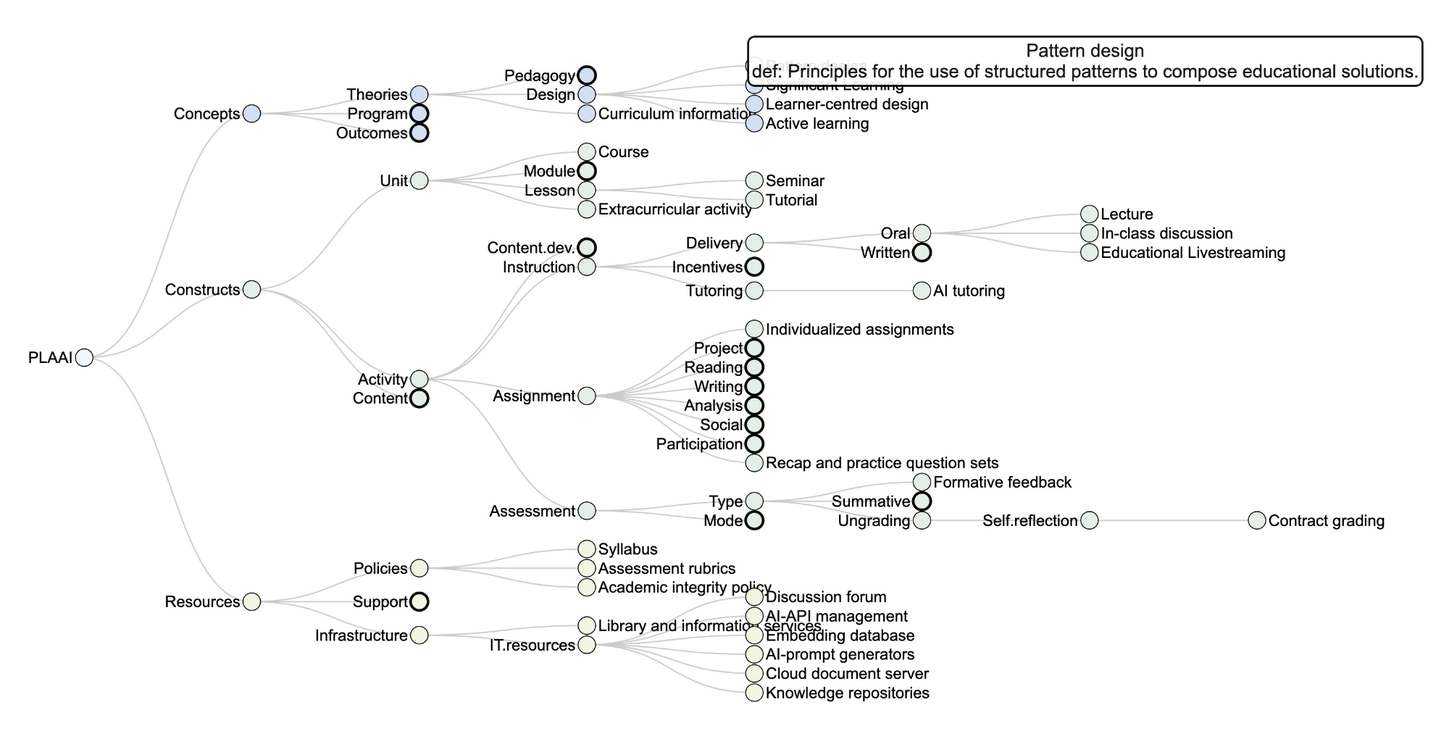
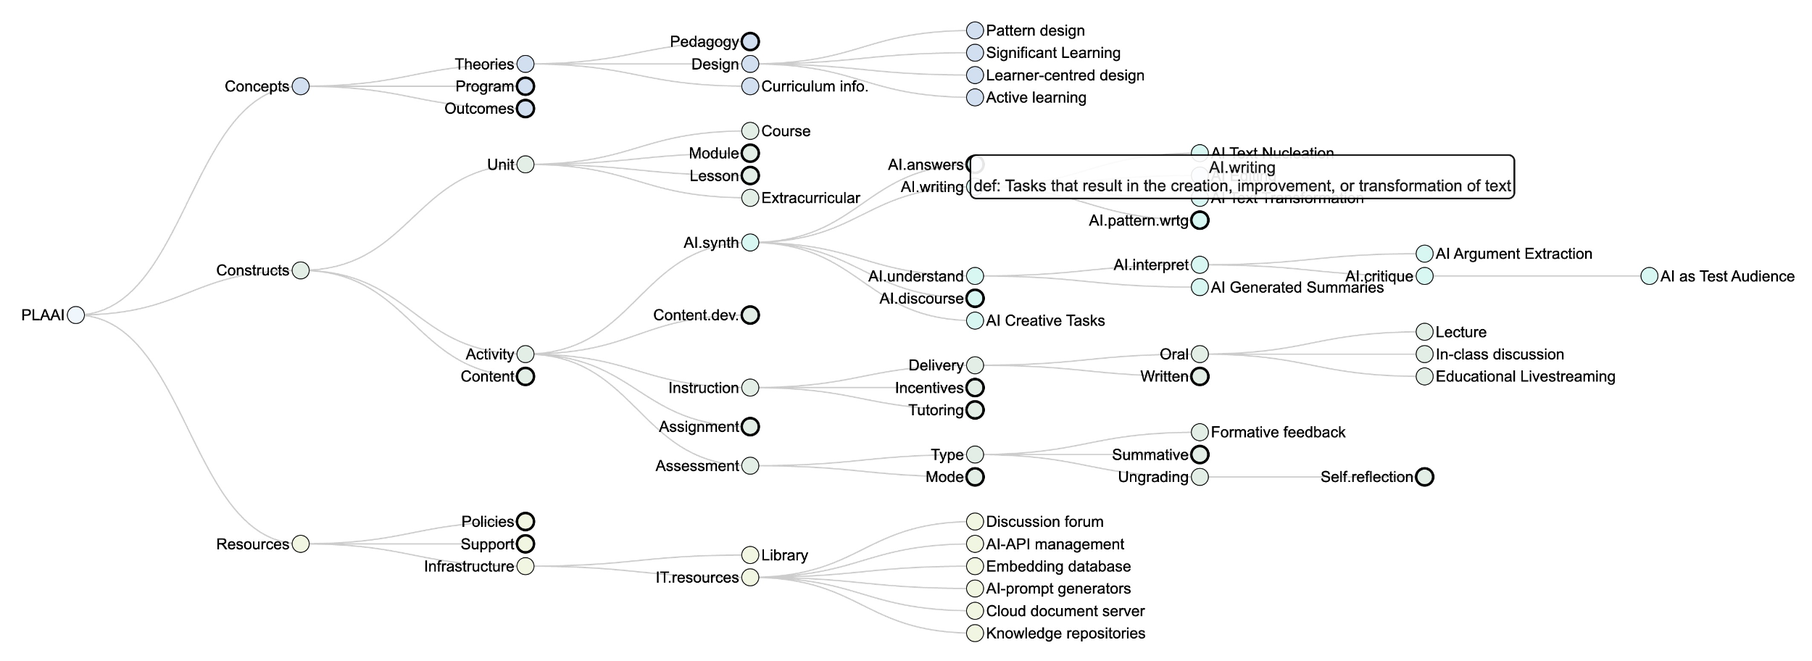
Added AISYN branch to tree

diff --git a/docs/PLAAI-reference.html b/docs/PLAAI-reference.html
@@ -1259,13 +1259,13 @@ function separationFun(a, b) {
     var noSpam = "sentient.syllabus";
   </script>
   <h2>PLAAI - A Pattern Language for AI-Augmented Instruction</h2>
-  <span style="color: #AAAAAA;">Version: 2023-05-15</span><br/>
+  <span style="color: #AAAAAA;">Version: 2023-05-17</span><br/>
 </span>
 <div id="htmlwidget_container">
-  <div id="htmlwidget-03c1bfc09c159c479cef" style="width:1000px;height:800px;" class="collapsibleTree html-widget "></div>
+  <div id="htmlwidget-c0831c7dac5cc8bb9c24" style="width:1000px;height:800px;" class="collapsibleTree html-widget "></div>
 </div>
-<script type="application/json" data-for="htmlwidget-03c1bfc09c159c479cef">{"x":{"data":{"name":"PLAAI","fill":"#EEF6FD","WeightOfNode":"A system of composable patterns for the design and implementation of education.","children":[{"name":"Concepts","fill":"#CEE0F2","WeightOfNode":"One of the three main concerns of PLAAI, complementing Educational Practice and Resources.","children":[{"name":"Theories","fill":"#CEE0F2","WeightOfNode":"The ideas through which we organize our understanding  of education.","children":[{"name":"Pedagogy","fill":"#CEE0F2","WeightOfNode":"A set of coherent principles, strategies and techniques for education.","children":[{"name":"Inquiry-based learning","fill":"#CEE0F2","WeightOfNode":"Learning through guided and independent investigation into complex problems."},{"name":"Individualized instruction","fill":"#CEE0F2","WeightOfNode":"Adapting instruction to students' individual interests, strengths, and needs."},{"name":"Collaborative learning","fill":"#CEE0F2","WeightOfNode":"Learning through working together as a mutually dependent collaborators"},{"name":"Knowledge Building","fill":"#CEE0F2","WeightOfNode":"Creation, validation and improvement of collective conceptual artifacts as pioneered by Scardamalia and Bereiter"}]},{"name":"Design","fill":"#CEE0F2","WeightOfNode":"Principles for the creation of effective education","children":[{"name":"Pattern design","fill":"#CEE0F2","WeightOfNode":"Principles for the use of structured patterns to compose educational solutions."},{"name":"Significant Learning","fill":"#CEE0F2","WeightOfNode":"Learning outcomes that integrate multiple dimensions of knowledge, popularized by L. Dee Fink"},{"name":"Learner-centred design","fill":"#CEE0F2","WeightOfNode":"Prioritizing learners' needs, preferences, and goals in the design of instructional experiences."},{"name":"Active learning","fill":"#CEE0F2","WeightOfNode":"Acquiring knowledege through agentive experience"}]},{"name":"Curriculum information","fill":"#CEE0F2","WeightOfNode":"The scope of learning objectives and a structured plan for their achievement"}]},{"name":"Program","fill":"#CEE0F2","WeightOfNode":"A structured learning experience that includes numerous instructional units","children":[{"name":"Degree","fill":"#CEE0F2","WeightOfNode":"A comprehensive education in a field capped by a certificate of achievement.","children":[{"name":"K12","fill":"#CEE0F2","WeightOfNode":"Primary and secondary schooling, from kindergarten through grade 12"},{"name":"Undergraduate degree program","fill":"#CEE0F2","WeightOfNode":"Post secondary education to a basic level, capped by a recognized certificate of achievement."},{"name":"Graduate degree program","fill":"#CEE0F2","WeightOfNode":"Post secondary education to an advance level, capped by a certificate of achievement."},{"name":"Continuing education","fill":"#CEE0F2","WeightOfNode":"Programs of education for adult learners"}]},{"name":"Non-degree program","fill":"#CEE0F2","WeightOfNode":"Post secondary education without a recognized certificate of achievement."},{"name":"Self-directed learning","fill":"#CEE0F2","WeightOfNode":"Supporting learners to take ownership of their education"}]},{"name":"Outcomes","fill":"#CEE0F2","WeightOfNode":"The intended results of a learning process or program","children":[{"name":"Certification","fill":"#CEE0F2","WeightOfNode":"A formal recognition of the attainment of specific knowledge and skills","children":[{"name":"Micro-credentials","fill":"#CEE0F2","WeightOfNode":"Small, focused units of learning that certify specific skills or competencies"}]}]}]},{"name":"Constructs","fill":"#E1EEE5","WeightOfNode":"One of the three main concerns of PLAAI, complementing Educational concepts and Educational resources.","children":[{"name":"Unit","fill":"#E1EEE5","WeightOfNode":"A coherent set of learning activities","children":[{"name":"Course","fill":"#E1EEE5","WeightOfNode":"A unit of instruction over an extended set of interactions"},{"name":"Module","fill":"#E1EEE5","WeightOfNode":"A thematic or organizational unit within a course","children":[{"name":"Thematic unit","fill":"#E1EEE5","WeightOfNode":"Education about a specific coherent segment of a field of study"}]},{"name":"Lesson","fill":"#E1EEE5","WeightOfNode":"Structured instructional units that cover a specific topic or skill, delivered in one contiguous time slot","children":[{"name":"Seminar","fill":"#E1EEE5","WeightOfNode":"An interactive, collaborative learning event"},{"name":"Tutorial","fill":"#E1EEE5","WeightOfNode":"An instructional session, typically in small groups, that aims to strebgthen understanding of previously delivered content"}]},{"name":"Extracurricular activity","fill":"#E1EEE5","WeightOfNode":"Structured scholarly, social, or cultural activities outside of formal education"}]},{"name":"Activity","fill":"#E1EEE5","WeightOfNode":"The actual delivery of a set of learning activities","children":[{"name":"Content.dev.","fill":"#E1EEE5","WeightOfNode":"Planning, structuring, compiling, and updating of educational content","children":[{"name":"AI-enhanced information curation","fill":"#E1EEE5","WeightOfNode":"Using AI for identifying, collecting, and organizing information"},{"name":"AI.Refinement","fill":"#E1EEE5","WeightOfNode":"Using generative AI for refining concepts and arguments","children":[{"name":"AI critique","fill":"#E1EEE5","WeightOfNode":"Using generative AI to critique concepts, arguments, and materials"}]}]},{"name":"Instruction","fill":"#E1EEE5","WeightOfNode":"Active sharing of information","children":[{"name":"Delivery","fill":"#E1EEE5","WeightOfNode":"Strategies for the presentation of instructional material","children":[{"name":"Oral","fill":"#E1EEE5","WeightOfNode":"Spoken forms of information exchange","children":[{"name":"Lecture","fill":"#E1EEE5","WeightOfNode":"Transmission of information about a defined topic through oral interpretation. "},{"name":"In-class discussion","fill":"#E1EEE5","WeightOfNode":"Acquiring knowledge through joint discourse"},{"name":"Educational Livestreaming","fill":"#E1EEE5","WeightOfNode":"Real time broadcasting of educational content"}]},{"name":"Written","fill":"#E1EEE5","WeightOfNode":"Develop argumentation, grammar, and clarity of writing ","children":[{"name":"Scripts","fill":"#E1EEE5","WeightOfNode":"Developing written summaries of oral communication"}]}]},{"name":"Incentives","fill":"#E1EEE5","WeightOfNode":"Strategies to motivate learners","children":[{"name":"Mastery","fill":"#E1EEE5","WeightOfNode":"Self-paced learning that proceeds through assessed milestones of competence","children":[{"name":"Self-paced learning","fill":"#E1EEE5","WeightOfNode":"Learners work according to their own schedule of progress"}]},{"name":"Engagement strategies","fill":"#E1EEE5","WeightOfNode":"Actively involving learners in the learning process"}]},{"name":"Tutoring","fill":"#E1EEE5","WeightOfNode":"Strategies to support learners through one-on-one interactions","children":[{"name":"AI tutoring","fill":"#E1EEE5","WeightOfNode":"Leverage generative AI for individual academic support"}]}]},{"name":"Assignment","fill":"#E1EEE5","WeightOfNode":"Design and assignment of tasks that aim structure and promote learning","children":[{"name":"Individualized assignments","fill":"#E1EEE5","WeightOfNode":"Create personalized learning materials based on individual needs"},{"name":"Project","fill":"#E1EEE5","WeightOfNode":"Tasks that apply and synthesize knowledge with a defined scope and endpoint","children":[{"name":"Design project","fill":"#E1EEE5","WeightOfNode":"The envisioning of a product or service to develop problem solving, and innovation"}]},{"name":"Reading","fill":"#E1EEE5","WeightOfNode":"Engaging with a defined text, learning, interpretation, and critique","children":[{"name":"Lecture pre-reading","fill":"#E1EEE5","WeightOfNode":"Reading relevant material as preparation for upcoming lectures"}]},{"name":"Writing","fill":"#E1EEE5","WeightOfNode":"Tasks that have the creation of text as their objective ","children":[{"name":"Outline","fill":"#E1EEE5","WeightOfNode":"Preparing complex work by decomposing the task and arranging the components in an effective sequence"},{"name":"Draft","fill":"#E1EEE5","WeightOfNode":"Preliminary versions of a written work for iterated critique and revision"},{"name":"Essay","fill":"#E1EEE5","WeightOfNode":"A coherent, persuasive piece of writing on a given topic"},{"name":"Report","fill":"#E1EEE5","WeightOfNode":"Structured writing assignments that present details on a topic"},{"name":"Summary","fill":"#E1EEE5","WeightOfNode":"Condensing larger texts into their essential contents"},{"name":"Code development","fill":"#E1EEE5","WeightOfNode":"Reading, understanding, developing, and running code."}]},{"name":"Analysis","fill":"#E1EEE5","WeightOfNode":"Critical examination of concepts, data, or text","children":[{"name":"Mind mapping","fill":"#E1EEE5","WeightOfNode":"Creating visual representations of concepts and their relationships"},{"name":"Critique","fill":"#E1EEE5","WeightOfNode":"Evaluate work and communicate merits, weaknesses and opportunities for improvement"},{"name":"Graphs and plots","fill":"#E1EEE5","WeightOfNode":"Interpreting, creating, or analyzing graphical representations of data"},{"name":"Statistical analysis","fill":"#E1EEE5","WeightOfNode":"Applying statistical techniques to data for quantitative reasoning"}]},{"name":"Social","fill":"#E1EEE5","WeightOfNode":"Engage in interpersonal communication, collaboration, or problem-solving","children":[{"name":"AI-facilitated collaborative learning","fill":"#E1EEE5","WeightOfNode":"Include an AI persona in group-learning to benefit from the modified social dynamics"},{"name":"Group work","fill":"#E1EEE5","WeightOfNode":"Students working together to complete a task or solve a problem"}]},{"name":"Participation","fill":"#E1EEE5","WeightOfNode":"Encouraging active, shared contributions to the learning process","children":[{"name":"Knowledge base contributions","fill":"#E1EEE5","WeightOfNode":"Active, contributions to a shared knowledge artefact"}]},{"name":"Recap and practice question sets","fill":"#E1EEE5","WeightOfNode":"Content specific summaries and questions for self-assessment of understanding"}]},{"name":"Assessment","fill":"#E1EEE5","WeightOfNode":"Evaluation of learning progress","children":[{"name":"Type","fill":"#E1EEE5","WeightOfNode":"A palette of assessment options","children":[{"name":"Formative feedback","fill":"#E1EEE5","WeightOfNode":"Providing learners with performance feedback that does not contribute to grading"},{"name":"Summative","fill":"#E1EEE5","WeightOfNode":"Providing learners with performance feedback that is part of grading","children":[{"name":"Oral exam","fill":"#E1EEE5","WeightOfNode":"Assessments of student knowledge and understanding in dialogue with an instructor"},{"name":"Participation assessment","fill":"#E1EEE5","WeightOfNode":"Assessment of frequency, scope, and quality of participation tasks"},{"name":"Self-assessment","fill":"#E1EEE5","WeightOfNode":"Learners' reflection on scope, form, and quality of their submitted work that is taken as a basis for grading"}]},{"name":"Ungrading","fill":"#E1EEE5","WeightOfNode":"Assessment of process and result of an achievement that is not expressed as a grade","children":[{"name":"Self.reflection","fill":"#E1EEE5","WeightOfNode":"Negotiation and definition of goals of learning and standards of achievement","children":[{"name":"Contract grading","fill":"#E1EEE5","WeightOfNode":"Assessment based on pre-negotiated goals and standards"}]}]}]},{"name":"Mode","fill":"#E1EEE5","WeightOfNode":"Methods and activities to evaluate learners' achievements","children":[{"name":"In-line feedback","fill":"#E1EEE5","WeightOfNode":"Specific and targeted feedback within a piece of work or activity"},{"name":"Generated feedback","fill":"#E1EEE5","WeightOfNode":"Synthesized, specific critique of learner submitted work"}]}]}]},{"name":"Content","fill":"#E1EEE5","WeightOfNode":"Content of the educational activity","children":[{"name":"Cross.content","fill":"#E1EEE5","WeightOfNode":"Content that is a part of any educational and scholarly activity in addition to its domain-specific material","children":[{"name":"Scholarship.princip.","fill":"#E1EEE5","WeightOfNode":"Values and performance standards that define scholarly conduct","children":[{"name":"Academic integrity","fill":"#E1EEE5","WeightOfNode":"A commitment to truth as a condition of membership in an academic community"},{"name":"Science","fill":"#E1EEE5","WeightOfNode":"The systematic approach to investigate phenomena based on transparency and reproducibility","children":[{"name":"Logical fallacies","fill":"#E1EEE5","WeightOfNode":"Errors in reasoning that invalidate arguments"},{"name":"Inference strategies","fill":"#E1EEE5","WeightOfNode":"Strategies to draw conclusions from observations"},{"name":"Reproducible research","fill":"#E1EEE5","WeightOfNode":"Best practice for methodology, data management and documentation"}]},{"name":"Relevance","fill":"#E1EEE5","WeightOfNode":"Identifying connections between educational content and activities, and real-life challenges","children":[{"name":"Sustainable Development Goals","fill":"#E1EEE5","WeightOfNode":"Seventeen interconnected objectives aimed at promoting sustainable development, formulated by the UN General Assembly"},{"name":"Interdisciplinary connections","fill":"#E1EEE5","WeightOfNode":"Linking concepts and skills across different disciplines"}]}]},{"name":"Scholarship.practice","fill":"#E1EEE5","WeightOfNode":"Concrete skills and habits for efficient scholarship","children":[{"name":"Reading skills","fill":"#E1EEE5","WeightOfNode":"Effectively comprehending and interpreting written information"},{"name":"Writing skills","fill":"#E1EEE5","WeightOfNode":"Principles for effective and engaging written communication"},{"name":"Tools","fill":"#E1EEE5","WeightOfNode":"Developing proficiency with tools and technologies relevant to a field","children":[{"name":"Collaboration tools","fill":"#E1EEE5","WeightOfNode":"Digital platforms that facilitate teamwork and communication"},{"name":"Computer literacy","fill":"#E1EEE5","WeightOfNode":"Using computers and related technology effectively, securely, and reproducibly"},{"name":"Media","fill":"#E1EEE5","WeightOfNode":"Promoting the access, evaluation, and use of information from various sources effectively and ethically","children":[{"name":"Netiquette","fill":"#E1EEE5","WeightOfNode":"Rules and guidelines for proper behavior and effective communication in online communities."}]}]},{"name":"Study.skills","fill":"#E1EEE5","WeightOfNode":"Techniques for the effective acquisition, retetention, and application of knowledge","children":[{"name":"Time management","fill":"#E1EEE5","WeightOfNode":"Organizing and planning how to effectively allocate time for various activities"},{"name":"Note taking","fill":"#E1EEE5","WeightOfNode":"Summarizing and recording significant information for future reference."},{"name":"Keeping a course journal","fill":"#E1EEE5","WeightOfNode":"Reflection and documentation of activities, insights, and progress for future reference"},{"name":"Recording significant course insights","fill":"#E1EEE5","WeightOfNode":"Documentation of significant moments of understanding"},{"name":"Wellness and mindfulness","fill":"#E1EEE5","WeightOfNode":"Promoting mental, emotional, and physical well-being in the learning environment."}]}]}]},{"name":"Learning playlists","fill":"#E1EEE5","WeightOfNode":"Curated sequences of educational resources that guide learners through a topic or skill"}]}]},{"name":"Resources","fill":"#F0F6E0","WeightOfNode":"One of the three main concerns of PLAAI, complementing Educational concepts and Educational practice.","children":[{"name":"Policies","fill":"#F0F6E0","WeightOfNode":"Normative guidelines that govern the conduct of scholars and learners","children":[{"name":"Syllabus","fill":"#F0F6E0","WeightOfNode":"The key document that governs course objectives, assignments, grading, and incorporates supporting policies"},{"name":"Assessment rubrics","fill":"#F0F6E0","WeightOfNode":"Transparent performance expectations and criteria for assessment"},{"name":"Academic integrity policy","fill":"#F0F6E0","WeightOfNode":"Normative ethical standards, and advice for putting them into practice"}]},{"name":"Support","fill":"#F0F6E0","WeightOfNode":"Services and resources that aid learners and instructors","children":[{"name":"Instructors","fill":"#F0F6E0","WeightOfNode":"Resources and assistance for educators in their teaching practice","children":[{"name":"Communities of practice","fill":"#F0F6E0","WeightOfNode":"Networks of educators and professionals who share expertise and experience"}]},{"name":"Students","fill":"#F0F6E0","WeightOfNode":"Resources and assistance for students throughout their academic journey","children":[{"name":"Accessibility","fill":"#F0F6E0","WeightOfNode":"Giving all students equal access to academic opportunities","children":[{"name":"Learning style support","fill":"#F0F6E0","WeightOfNode":"Address diverse learning needs with differentiated instructional approaches"}]}]}]},{"name":"Infrastructure","fill":"#F0F6E0","WeightOfNode":"Materials and tools for effective instruction","children":[{"name":"Library and information services","fill":"#F0F6E0","WeightOfNode":"Resources and study spaces for learners"},{"name":"IT.resources","fill":"#F0F6E0","WeightOfNode":"Centralized hardware, software, and services to support educational activities","children":[{"name":"Discussion forum","fill":"#F0F6E0","WeightOfNode":"Online platforms that support communication and collaboration among learners"},{"name":"AI-API management","fill":"#F0F6E0","WeightOfNode":"Integrating automated and enhanced AI services into educational workflows"},{"name":"Embedding database","fill":"#F0F6E0","WeightOfNode":"Database of precomputed language-model embeddings of texts for efficient retrieval"},{"name":"AI-prompt generators","fill":"#F0F6E0","WeightOfNode":"Tools that create contextually relevant prompts for generative AI models"},{"name":"Cloud document server","fill":"#F0F6E0","WeightOfNode":"Efficient integration of cloud data services into the learning process"},{"name":"Knowledge repositories","fill":"#F0F6E0","WeightOfNode":"Platforms that store, organize, and manage educational resources at multiple scales"}]}]}]}]},"options":{"hierarchy":[1,2,3,4,5,6,7,8],"input":null,"attribute":"def","linkLength":null,"fontSize":18,"tooltip":true,"collapsed":true,"zoomable":true,"margin":{"top":20,"bottom":20,"left":70,"right":169}}},"evals":[],"jsHooks":[]}</script>
-<script type="application/htmlwidget-sizing" data-for="htmlwidget-03c1bfc09c159c479cef">{"viewer":{"width":1000,"height":800,"padding":0,"fill":false},"browser":{"width":1000,"height":800,"padding":40,"fill":false}}</script>
+<script type="application/json" data-for="htmlwidget-c0831c7dac5cc8bb9c24">{"x":{"data":{"name":"PLAAI","fill":"#EEF6FD","WeightOfNode":"A system of composable patterns for the design and implementation of education.","children":[{"name":"Concepts","fill":"#CEE0F2","WeightOfNode":"One of the three main concerns of PLAAI, complementing Educational Practice and Resources.","children":[{"name":"Theories","fill":"#CEE0F2","WeightOfNode":"The ideas through which we organize our understanding  of education.","children":[{"name":"Pedagogy","fill":"#CEE0F2","WeightOfNode":"A set of coherent principles, strategies and techniques for education.","children":[{"name":"Inquiry-based learning","fill":"#CEE0F2","WeightOfNode":"Learning through guided and independent investigation into complex problems."},{"name":"Individualized instruction","fill":"#CEE0F2","WeightOfNode":"Adapting instruction to students' individual interests, strengths, and needs."},{"name":"Collaborative learning","fill":"#CEE0F2","WeightOfNode":"Learning through working together as a mutually dependent collaborators"},{"name":"Knowledge Building","fill":"#CEE0F2","WeightOfNode":"Creation, validation and improvement of collective conceptual artifacts as pioneered by Scardamalia and Bereiter"}]},{"name":"Design","fill":"#CEE0F2","WeightOfNode":"Principles for the creation of effective education","children":[{"name":"Pattern design","fill":"#CEE0F2","WeightOfNode":"Principles for the use of structured patterns to compose educational solutions."},{"name":"Significant Learning","fill":"#CEE0F2","WeightOfNode":"Learning outcomes that integrate multiple dimensions of knowledge, popularized by L. Dee Fink"},{"name":"Learner-centred design","fill":"#CEE0F2","WeightOfNode":"Prioritizing learners' needs, preferences, and goals in the design of instructional experiences."},{"name":"Active learning","fill":"#CEE0F2","WeightOfNode":"Acquiring knowledege through agentive experience"}]},{"name":"Curriculum info.","fill":"#CEE0F2","WeightOfNode":"The scope of learning objectives and a structured plan for their achievement"}]},{"name":"Program","fill":"#CEE0F2","WeightOfNode":"A structured learning experience that includes numerous instructional units","children":[{"name":"Degree","fill":"#CEE0F2","WeightOfNode":"A comprehensive education in a field capped by a certificate of achievement.","children":[{"name":"K12","fill":"#CEE0F2","WeightOfNode":"Primary and secondary schooling, from kindergarten through grade 12"},{"name":"Undergraduate degree program","fill":"#CEE0F2","WeightOfNode":"Post secondary education to a basic level, capped by a recognized certificate of achievement."},{"name":"Graduate degree program","fill":"#CEE0F2","WeightOfNode":"Post secondary education to an advance level, capped by a certificate of achievement."},{"name":"Continuing education","fill":"#CEE0F2","WeightOfNode":"Programs of education for adult learners"}]},{"name":"Non-degree program","fill":"#CEE0F2","WeightOfNode":"Post secondary education without a recognized certificate of achievement."},{"name":"Self-directed learning","fill":"#CEE0F2","WeightOfNode":"Supporting learners to take ownership of their education"}]},{"name":"Outcomes","fill":"#CEE0F2","WeightOfNode":"The intended results of a learning process or program","children":[{"name":"Certification","fill":"#CEE0F2","WeightOfNode":"A formal recognition of the attainment of specific knowledge and skills","children":[{"name":"Micro-credentials","fill":"#CEE0F2","WeightOfNode":"Small, focused units of learning that certify specific skills or competencies"}]}]}]},{"name":"Constructs","fill":"#E1EEE5","WeightOfNode":"One of the three main concerns of PLAAI, complementing Educational concepts and Educational resources.","children":[{"name":"Unit","fill":"#E1EEE5","WeightOfNode":"A coherent set of learning activities","children":[{"name":"Course","fill":"#E1EEE5","WeightOfNode":"A unit of instruction over an extended set of interactions"},{"name":"Module","fill":"#E1EEE5","WeightOfNode":"A thematic or organizational unit within a course","children":[{"name":"Thematic unit","fill":"#E1EEE5","WeightOfNode":"Education about a specific coherent segment of a field of study"}]},{"name":"Lesson","fill":"#E1EEE5","WeightOfNode":"Structured instructional units that cover a specific topic or skill, delivered in one contiguous time slot","children":[{"name":"Seminar","fill":"#E1EEE5","WeightOfNode":"An interactive, collaborative learning event"},{"name":"Tutorial","fill":"#E1EEE5","WeightOfNode":"An instructional session, typically in small groups, that aims to strebgthen understanding of previously delivered content"}]},{"name":"Extracurricular","fill":"#E1EEE5","WeightOfNode":"Structured scholarly, social, or cultural activities outside of formal education"}]},{"name":"Activity","fill":"#E1EEE5","WeightOfNode":"The actual delivery of a set of learning activities","children":[{"name":"AI.synth","fill":"#d1f7f2","WeightOfNode":"Synthesis of educational material by an AI model or in discourse with an AI model","children":[{"name":"AI.answers","fill":"#d1f7f2","WeightOfNode":"Obtaining answers that draw on the vast knowledge base of the Language Model","children":[{"name":"AI Explanations","fill":"#d1f7f2","WeightOfNode":"Explanation of facts taking context of discourse and learners' needs into consideration"},{"name":"AI Planning and Guidance","fill":"#d1f7f2","WeightOfNode":"Use contextual understanding and knowledge of processes to propose, sequence and prioritize steps of a task"}]},{"name":"AI.writing","fill":"#d1f7f2","WeightOfNode":"Tasks that result in the creation,  improvement, or transformation of text","children":[{"name":"AI Text Nucleation","fill":"#d1f7f2","WeightOfNode":"Providing first outlines, sketches, or structured arguments to jump-start a writing process"},{"name":"AI Editing","fill":"#d1f7f2","WeightOfNode":"Improving a text for grammar, expression, and style"},{"name":"AI Text Transformation","fill":"#d1f7f2","WeightOfNode":"Transforming text according to a schema"},{"name":"AI.pattern.wrtg","fill":"#d1f7f2","WeightOfNode":"Writing according to templates, patterns and examples, for example drafting practice questions according to a given format","children":[{"name":"AI Technical Writing","fill":"#d1f7f2","WeightOfNode":"Writing in specific styles, formats or for purposes like CVs, applications, professional correspondence etc."}]}]},{"name":"AI.understand","fill":"#d1f7f2","WeightOfNode":"Analysing text and understanding its contents","children":[{"name":"AI.interpret","fill":"#d1f7f2","WeightOfNode":"Interpretation of text according to principles of text-analysis","children":[{"name":"AI Argument Extraction","fill":"#d1f7f2","WeightOfNode":"Identifying and listing arguments from a text and identifying their causal connections"},{"name":"AI.critique","fill":"#d1f7f2","WeightOfNode":"Identifying weaknesses of a text and proposing improvements","children":[{"name":"AI as Test Audience","fill":"#d1f7f2","WeightOfNode":"Critiquing text to evaluate how an audience understands it"}]}]},{"name":"AI Generated Summaries","fill":"#d1f7f2","WeightOfNode":"Concise summaries of text contents"}]},{"name":"AI.discourse","fill":"#d1f7f2","WeightOfNode":"Involving the AI in a discourse","children":[{"name":"AI as Target of Criticism","fill":"#d1f7f2","WeightOfNode":"Practising critical text analysis with AI drafted text without being inhibited by causing offence to classroom peers"},{"name":"AI Co-Coding","fill":"#d1f7f2","WeightOfNode":"Collaborative computer code writing with an AI"},{"name":"AI Socratic dialogue","fill":"#d1f7f2","WeightOfNode":"Teaching a subject through questioning the learner and helping them discover the correct solution through their own insights"},{"name":"AI Reverse Socratic Dial.","fill":"#d1f7f2","WeightOfNode":"Refining one's own understanding of a topic through careful examination of the foundations of the AI's viewpoints and misunderstandings"}]},{"name":"AI Creative Tasks","fill":"#d1f7f2","WeightOfNode":"AI contributing creative ideas"}]},{"name":"Content.dev.","fill":"#E1EEE5","WeightOfNode":"Planning, structuring, compiling, and updating of educational content","children":[{"name":"AI-enhanced information curation","fill":"#E1EEE5","WeightOfNode":"Using AI for identifying, collecting, and organizing information"}]},{"name":"Instruction","fill":"#E1EEE5","WeightOfNode":"Active sharing of information","children":[{"name":"Delivery","fill":"#E1EEE5","WeightOfNode":"Strategies for the presentation of instructional material","children":[{"name":"Oral","fill":"#E1EEE5","WeightOfNode":"Spoken forms of information exchange","children":[{"name":"Lecture","fill":"#E1EEE5","WeightOfNode":"Transmission of information about a defined topic through oral interpretation. "},{"name":"In-class discussion","fill":"#E1EEE5","WeightOfNode":"Acquiring knowledge through joint discourse"},{"name":"Educational Livestreaming","fill":"#E1EEE5","WeightOfNode":"Real time broadcasting of educational content"}]},{"name":"Written","fill":"#E1EEE5","WeightOfNode":"Develop argumentation, grammar, and clarity of writing ","children":[{"name":"Scripts","fill":"#E1EEE5","WeightOfNode":"Developing written summaries of oral communication"}]}]},{"name":"Incentives","fill":"#E1EEE5","WeightOfNode":"Strategies to motivate learners","children":[{"name":"Mastery","fill":"#E1EEE5","WeightOfNode":"Self-paced learning that proceeds through assessed milestones of competence","children":[{"name":"Self-paced learning","fill":"#E1EEE5","WeightOfNode":"Learners work according to their own schedule of progress"}]},{"name":"Engagement strategies","fill":"#E1EEE5","WeightOfNode":"Actively involving learners in the learning process"}]},{"name":"Tutoring","fill":"#E1EEE5","WeightOfNode":"Strategies to support learners through one-on-one interactions","children":[{"name":"AI tutoring","fill":"#E1EEE5","WeightOfNode":"Leverage generative AI for individual academic support"}]}]},{"name":"Assignment","fill":"#E1EEE5","WeightOfNode":"Design and assignment of tasks that aim structure and promote learning","children":[{"name":"Individualized assignments","fill":"#E1EEE5","WeightOfNode":"Create personalized learning materials based on individual needs"},{"name":"Project","fill":"#E1EEE5","WeightOfNode":"Tasks that apply and synthesize knowledge with a defined scope and endpoint","children":[{"name":"Design project","fill":"#E1EEE5","WeightOfNode":"The envisioning of a product or service to develop problem solving, and innovation"}]},{"name":"Reading","fill":"#E1EEE5","WeightOfNode":"Engaging with a defined text, learning, interpretation, and critique","children":[{"name":"Lecture pre-reading","fill":"#E1EEE5","WeightOfNode":"Reading relevant material as preparation for upcoming lectures"}]},{"name":"Writing","fill":"#E1EEE5","WeightOfNode":"Tasks that have the creation of text as their objective ","children":[{"name":"Outline","fill":"#E1EEE5","WeightOfNode":"Preparing complex work by decomposing the task and arranging the components in an effective sequence"},{"name":"Draft","fill":"#E1EEE5","WeightOfNode":"Preliminary versions of a written work for iterated critique and revision"},{"name":"Essay","fill":"#E1EEE5","WeightOfNode":"A coherent, persuasive piece of writing on a given topic"},{"name":"Report","fill":"#E1EEE5","WeightOfNode":"Structured writing assignments that present details on a topic"},{"name":"Summary","fill":"#E1EEE5","WeightOfNode":"Condensing larger texts into their essential contents"},{"name":"Code development","fill":"#E1EEE5","WeightOfNode":"Reading, understanding, developing, and running code."}]},{"name":"Analysis","fill":"#E1EEE5","WeightOfNode":"Critical examination of concepts, data, or text","children":[{"name":"Mind mapping","fill":"#E1EEE5","WeightOfNode":"Creating visual representations of concepts and their relationships"},{"name":"Critique","fill":"#E1EEE5","WeightOfNode":"Evaluate work and communicate merits, weaknesses and opportunities for improvement"},{"name":"Graphs and plots","fill":"#E1EEE5","WeightOfNode":"Interpreting, creating, or analyzing graphical representations of data"},{"name":"Statistical analysis","fill":"#E1EEE5","WeightOfNode":"Applying statistical techniques to data for quantitative reasoning"}]},{"name":"Social","fill":"#E1EEE5","WeightOfNode":"Engage in interpersonal communication, collaboration, or problem-solving","children":[{"name":"AI-facilitated collaborative learning","fill":"#E1EEE5","WeightOfNode":"Include an AI persona in group-learning to benefit from the modified social dynamics"},{"name":"Group work","fill":"#E1EEE5","WeightOfNode":"Students working together to complete a task or solve a problem"}]},{"name":"Participation","fill":"#E1EEE5","WeightOfNode":"Encouraging active, shared contributions to the learning process","children":[{"name":"Knowledge base contributions","fill":"#E1EEE5","WeightOfNode":"Active, contributions to a shared knowledge artefact"}]},{"name":"Recap and practice","fill":"#E1EEE5","WeightOfNode":"Content specific summaries and questions for self-assessment of understanding"}]},{"name":"Assessment","fill":"#E1EEE5","WeightOfNode":"Evaluation of learning progress","children":[{"name":"Type","fill":"#E1EEE5","WeightOfNode":"A palette of assessment options","children":[{"name":"Formative feedback","fill":"#E1EEE5","WeightOfNode":"Providing learners with performance feedback that does not contribute to grading"},{"name":"Summative","fill":"#E1EEE5","WeightOfNode":"Providing learners with performance feedback that is part of grading","children":[{"name":"Oral exam","fill":"#E1EEE5","WeightOfNode":"Assessments of student knowledge and understanding in dialogue with an instructor"},{"name":"Participation assessment","fill":"#E1EEE5","WeightOfNode":"Assessment of frequency, scope, and quality of participation tasks"},{"name":"Self-assessment","fill":"#E1EEE5","WeightOfNode":"Learners' reflection on scope, form, and quality of their submitted work that is taken as a basis for grading"}]},{"name":"Ungrading","fill":"#E1EEE5","WeightOfNode":"Assessment of process and result of an achievement that is not expressed as a grade","children":[{"name":"Self.reflection","fill":"#E1EEE5","WeightOfNode":"Negotiation and definition of goals of learning and standards of achievement","children":[{"name":"Contract grading","fill":"#E1EEE5","WeightOfNode":"Assessment based on pre-negotiated goals and standards"}]}]}]},{"name":"Mode","fill":"#E1EEE5","WeightOfNode":"Methods and activities to evaluate learners' achievements","children":[{"name":"In-line feedback","fill":"#E1EEE5","WeightOfNode":"Specific and targeted feedback within a piece of work or activity"},{"name":"Generated feedback","fill":"#E1EEE5","WeightOfNode":"Synthesized, specific critique of learner submitted work"}]}]}]},{"name":"Content","fill":"#E1EEE5","WeightOfNode":"Content of the educational activity","children":[{"name":"Cross.content","fill":"#E1EEE5","WeightOfNode":"Content that is a part of any educational and scholarly activity in addition to its domain-specific material","children":[{"name":"Scholarship.princip.","fill":"#E1EEE5","WeightOfNode":"Values and performance standards that define scholarly conduct","children":[{"name":"Academic integrity","fill":"#E1EEE5","WeightOfNode":"A commitment to truth as a condition of membership in an academic community"},{"name":"Science","fill":"#E1EEE5","WeightOfNode":"The systematic approach to investigate phenomena based on transparency and reproducibility","children":[{"name":"Logical fallacies","fill":"#E1EEE5","WeightOfNode":"Errors in reasoning that invalidate arguments"},{"name":"Inference strategies","fill":"#E1EEE5","WeightOfNode":"Strategies to draw conclusions from observations"},{"name":"Reproducible research","fill":"#E1EEE5","WeightOfNode":"Best practice for methodology, data management and documentation"}]},{"name":"Relevance","fill":"#E1EEE5","WeightOfNode":"Identifying connections between educational content and activities, and real-life challenges","children":[{"name":"Sustainable Development Goals","fill":"#E1EEE5","WeightOfNode":"Seventeen interconnected objectives aimed at promoting sustainable development, formulated by the UN General Assembly"},{"name":"Interdisciplinary connections","fill":"#E1EEE5","WeightOfNode":"Linking concepts and skills across different disciplines"}]}]},{"name":"Scholarship.practice","fill":"#E1EEE5","WeightOfNode":"Concrete skills and habits for efficient scholarship","children":[{"name":"Reading skills","fill":"#E1EEE5","WeightOfNode":"Effectively comprehending and interpreting written information"},{"name":"Writing skills","fill":"#E1EEE5","WeightOfNode":"Principles for effective and engaging written communication"},{"name":"Tools","fill":"#E1EEE5","WeightOfNode":"Developing proficiency with tools and technologies relevant to a field","children":[{"name":"Use of AI resources","fill":"#E1EEE5","WeightOfNode":"Educate learners about effective use of genertaive AI tools"},{"name":"Collaboration tools","fill":"#E1EEE5","WeightOfNode":"Digital platforms that facilitate teamwork and communication"},{"name":"Computer literacy","fill":"#E1EEE5","WeightOfNode":"Using computers and related technology effectively, securely, and reproducibly"},{"name":"Media","fill":"#E1EEE5","WeightOfNode":"Promoting the access, evaluation, and use of information from various sources effectively and ethically","children":[{"name":"Netiquette","fill":"#E1EEE5","WeightOfNode":"Rules and guidelines for proper behavior and effective communication in online communities."}]}]},{"name":"Study.skills","fill":"#E1EEE5","WeightOfNode":"Techniques for the effective acquisition, retetention, and application of knowledge","children":[{"name":"Time management","fill":"#E1EEE5","WeightOfNode":"Organizing and planning how to effectively allocate time for various activities"},{"name":"Note taking","fill":"#E1EEE5","WeightOfNode":"Summarizing and recording significant information for future reference."},{"name":"Keeping a course journal","fill":"#E1EEE5","WeightOfNode":"Reflection and documentation of activities, insights, and progress for future reference"},{"name":"Recording significant course insights","fill":"#E1EEE5","WeightOfNode":"Documentation of significant moments of understanding"},{"name":"Wellness and mindfulness","fill":"#E1EEE5","WeightOfNode":"Promoting mental, emotional, and physical well-being in the learning environment."}]}]}]},{"name":"Learning playlists","fill":"#E1EEE5","WeightOfNode":"Curated sequences of educational resources that guide learners through a topic or skill"}]}]},{"name":"Resources","fill":"#F0F6E0","WeightOfNode":"One of the three main concerns of PLAAI, complementing Educational concepts and Educational practice.","children":[{"name":"Policies","fill":"#F0F6E0","WeightOfNode":"Normative guidelines that govern the conduct of scholars and learners","children":[{"name":"Syllabus","fill":"#F0F6E0","WeightOfNode":"The key document that governs course objectives, assignments, grading, and incorporates supporting policies"},{"name":"Assessment rubrics","fill":"#F0F6E0","WeightOfNode":"Transparent performance expectations and criteria for assessment"},{"name":"Acad. integrity policy","fill":"#F0F6E0","WeightOfNode":"Normative ethical standards, and advice for putting them into practice"}]},{"name":"Support","fill":"#F0F6E0","WeightOfNode":"Services and resources that aid learners and instructors","children":[{"name":"Instructors","fill":"#F0F6E0","WeightOfNode":"Resources and assistance for educators in their teaching practice","children":[{"name":"Communities of practice","fill":"#F0F6E0","WeightOfNode":"Networks of educators and professionals who share expertise and experience"}]},{"name":"Students","fill":"#F0F6E0","WeightOfNode":"Resources and assistance for students throughout their academic journey","children":[{"name":"Accessibility","fill":"#F0F6E0","WeightOfNode":"Giving all students equal access to academic opportunities","children":[{"name":"Learning style support","fill":"#F0F6E0","WeightOfNode":"Address diverse learning needs with differentiated instructional approaches"}]}]}]},{"name":"Infrastructure","fill":"#F0F6E0","WeightOfNode":"Materials and tools for effective instruction","children":[{"name":"Library","fill":"#F0F6E0","WeightOfNode":"Resources and study spaces for learners"},{"name":"IT.resources","fill":"#F0F6E0","WeightOfNode":"Centralized hardware, software, and services to support educational activities","children":[{"name":"Discussion forum","fill":"#F0F6E0","WeightOfNode":"Online platforms that support communication and collaboration among learners"},{"name":"AI-API management","fill":"#F0F6E0","WeightOfNode":"Integrating automated and enhanced AI services into educational workflows"},{"name":"Embedding database","fill":"#F0F6E0","WeightOfNode":"Database of precomputed language-model embeddings of texts for efficient retrieval"},{"name":"AI-prompt generators","fill":"#F0F6E0","WeightOfNode":"Tools that create contextually relevant prompts for generative AI models"},{"name":"Cloud document server","fill":"#F0F6E0","WeightOfNode":"Efficient integration of cloud data services into the learning process"},{"name":"Knowledge repositories","fill":"#F0F6E0","WeightOfNode":"Platforms that store, organize, and manage educational resources at multiple scales"}]}]}]}]},"options":{"hierarchy":[1,2,3,4,5,6,7,8],"input":null,"attribute":"def","linkLength":null,"fontSize":18,"tooltip":true,"collapsed":true,"zoomable":true,"margin":{"top":20,"bottom":20,"left":70,"right":196}}},"evals":[],"jsHooks":[]}</script>
+<script type="application/htmlwidget-sizing" data-for="htmlwidget-c0831c7dac5cc8bb9c24">{"viewer":{"width":1000,"height":800,"padding":0,"fill":false},"browser":{"width":1000,"height":800,"padding":40,"fill":false}}</script>
 
 <span style="font-family: Helvetica, sans-serif;font-size:80%;">
 <p style ="margin-top: 0em; margin-bottom:1em;">
